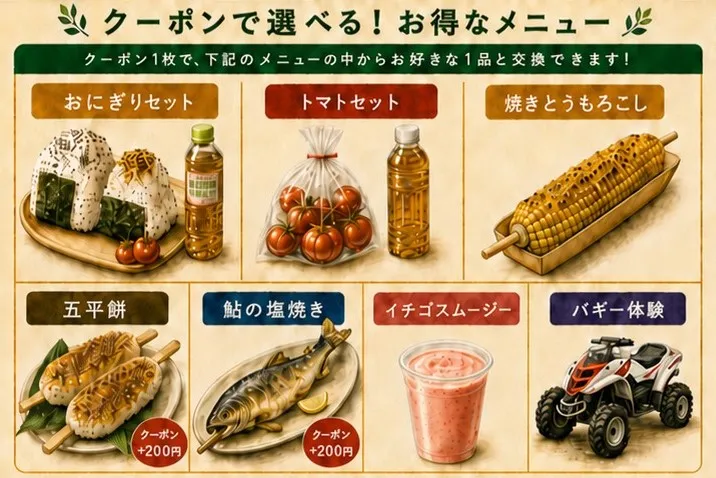
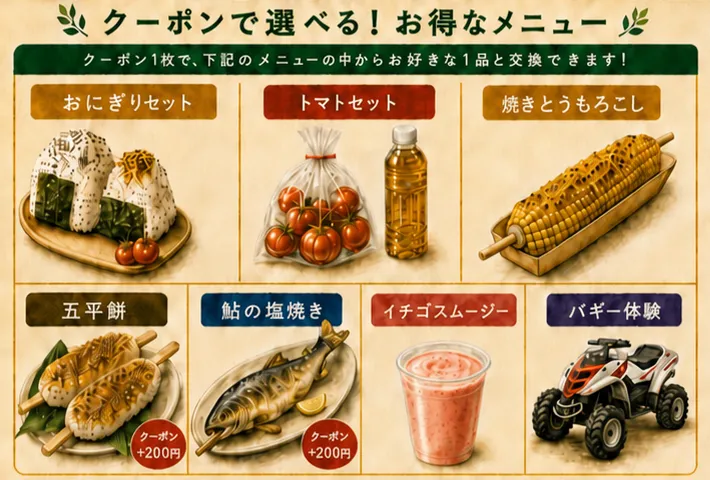
ガレージ食堂の画像一部変更・調整

diff --git a/css/style.css b/css/style.css
@@ -2623,13 +2623,13 @@ section,
 @media (max-width: 426px) {
   #mix-bowl.event-section .event-title .main-title,
   #garage-shokudo.event-section .event-title .main-title {
-    font-size: 3rem;
+    font-size: 2.25rem;
   }
 }
 @media (max-width: 376px) {
   #mix-bowl.event-section .event-title .main-title,
   #garage-shokudo.event-section .event-title .main-title {
-    font-size: 2.25rem;
+    font-size: 2rem;
   }
 }
 #mix-bowl.event-section .event-title .main-title .main-title-red,

diff --git a/css/parts/_main-event.scss b/css/parts/_main-event.scss
@@ -263,10 +263,10 @@ section,
         font-size: 4.5rem;
       }
       @media (max-width: 426px) {
-        font-size: 3rem;
+        font-size: 2.25rem;
       }
       @media (max-width: 376px) {
-        font-size: 2.25rem;
+        font-size: 2rem;
       }
       .main-title-red {
         position: relative;
